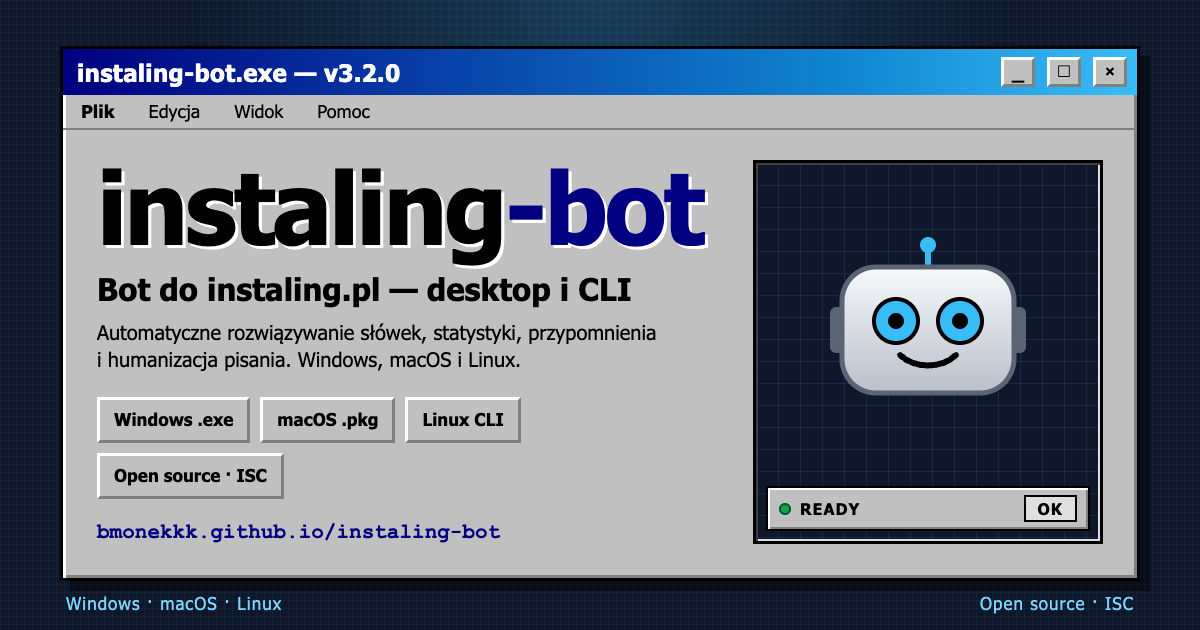
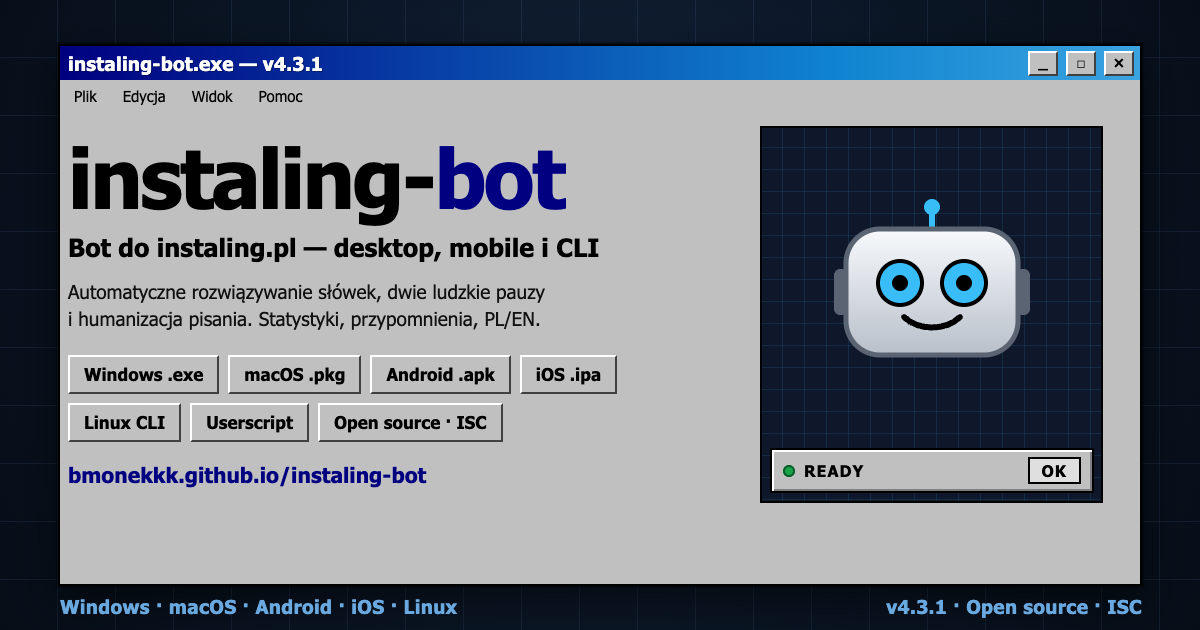
seo: re-render the social preview card for 4.3.1
The og:image still showed a v3.2.0 window advertising 'desktop i CLI' and
'Windows, macOS i Linux', which is what every forum/social link preview renders.
Rebuilt at 1200x630 with v4.3.1, all six download targets and the Android/iOS
support line, keeping the classic window chrome and robot panel.

diff --git a/PROJECT_NOTES.md b/PROJECT_NOTES.md
@@ -395,8 +395,10 @@ Health files live at the repository root: `SECURITY.md`, `CONTRIBUTING.md`, `SUP
 - `docs/index.html` has a Polish title and description, canonical URL, `hreflang`, Open Graph
   and Twitter cards, `SoftwareApplication` + `FAQPage` JSON-LD, a favicon, an English summary
   section, `robots.txt`, `sitemap.xml` and `llms.txt` for AI crawlers.
-- `docs/social-preview.png` is a 1200x630 card for link previews. Upload it in GitHub
-  Settings → Social preview for the repository.
+- `docs/social-preview.png` is the 1200x630 card used by `og:image`/`twitter:image`; it shows
+  the current version (`v4.3.1`), the six download targets and the classic window chrome, so
+  re-render it on every release. Upload it in GitHub Settings → Social preview for the
+  repository (GitHub does not read it from the repo).
 - `scripts/submit-indexnow.sh` (`npm run indexnow`) submits the page to IndexNow, which covers
   Bing, Yandex, Seznam, Naver and other participants. Run it after a Pages deploy.
 - Google does not use IndexNow. Add the URL-prefix property
